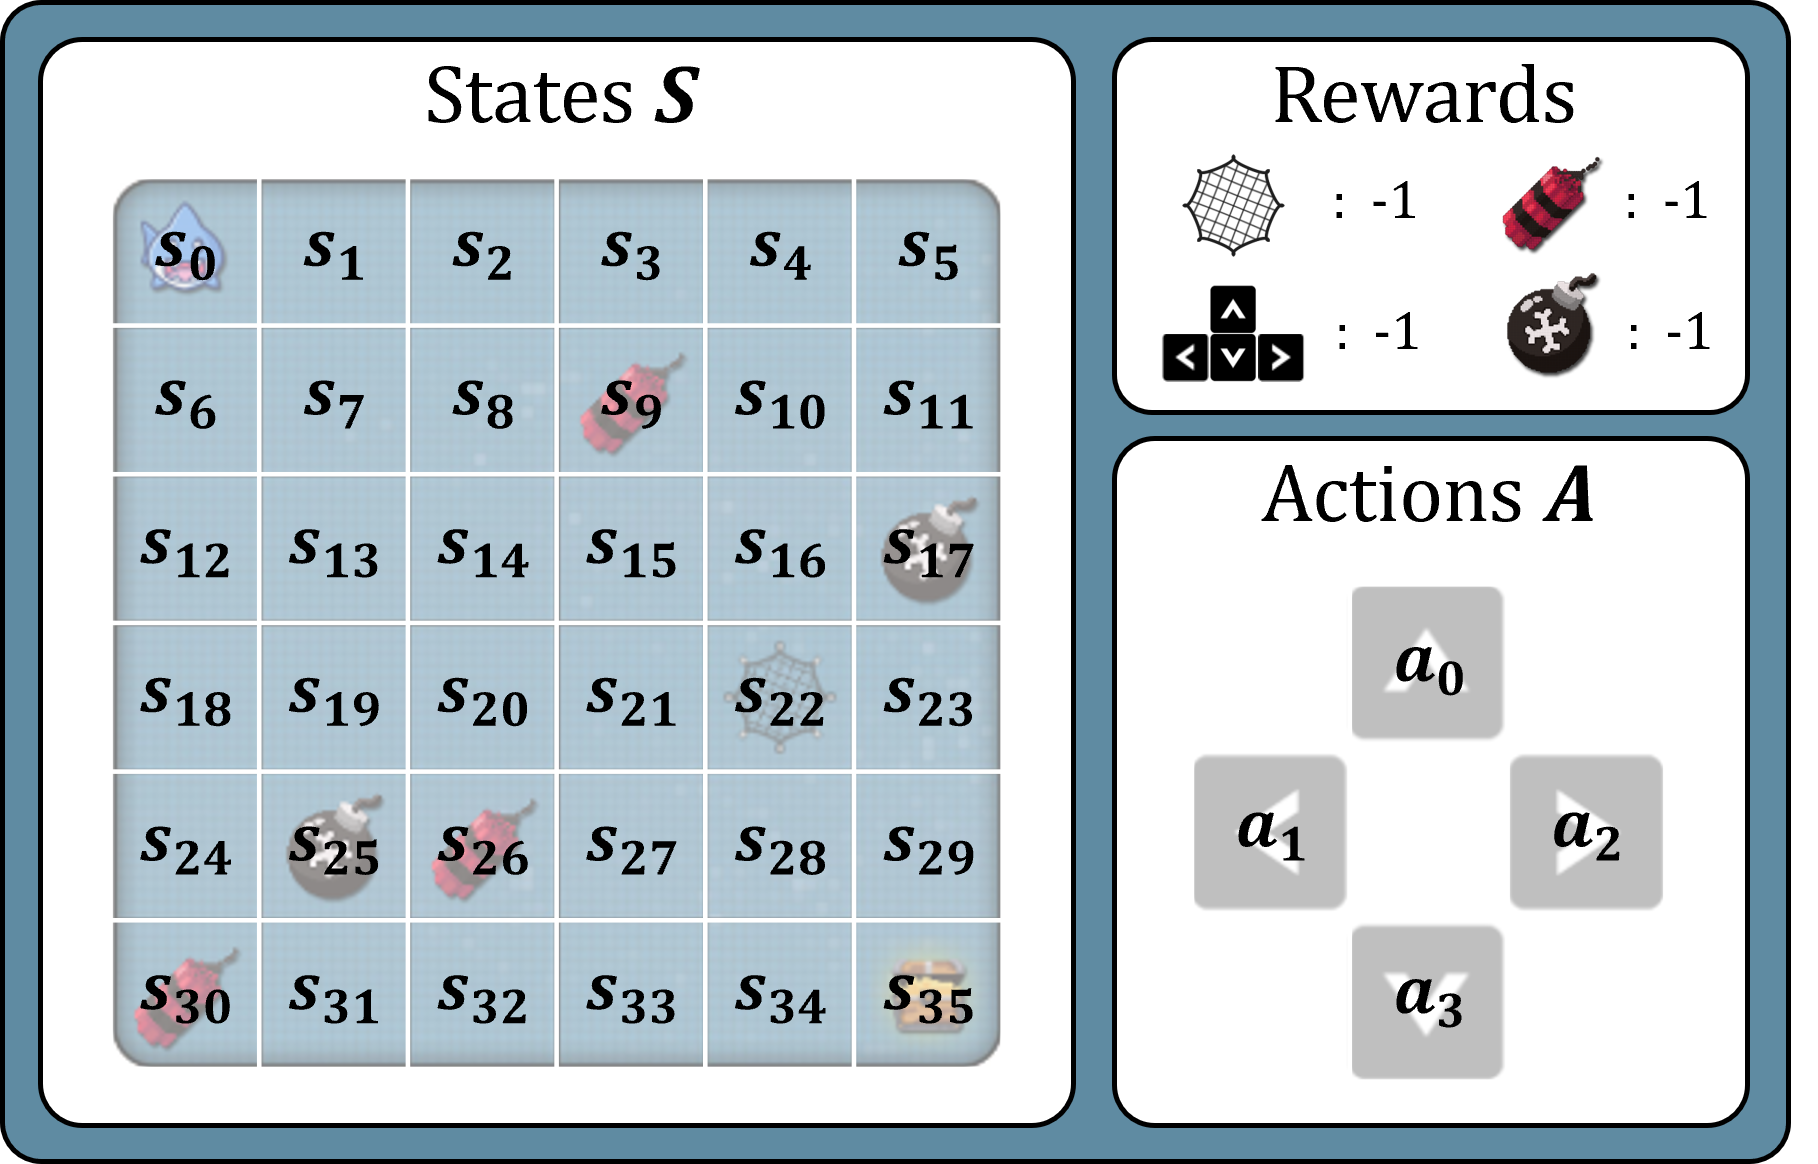
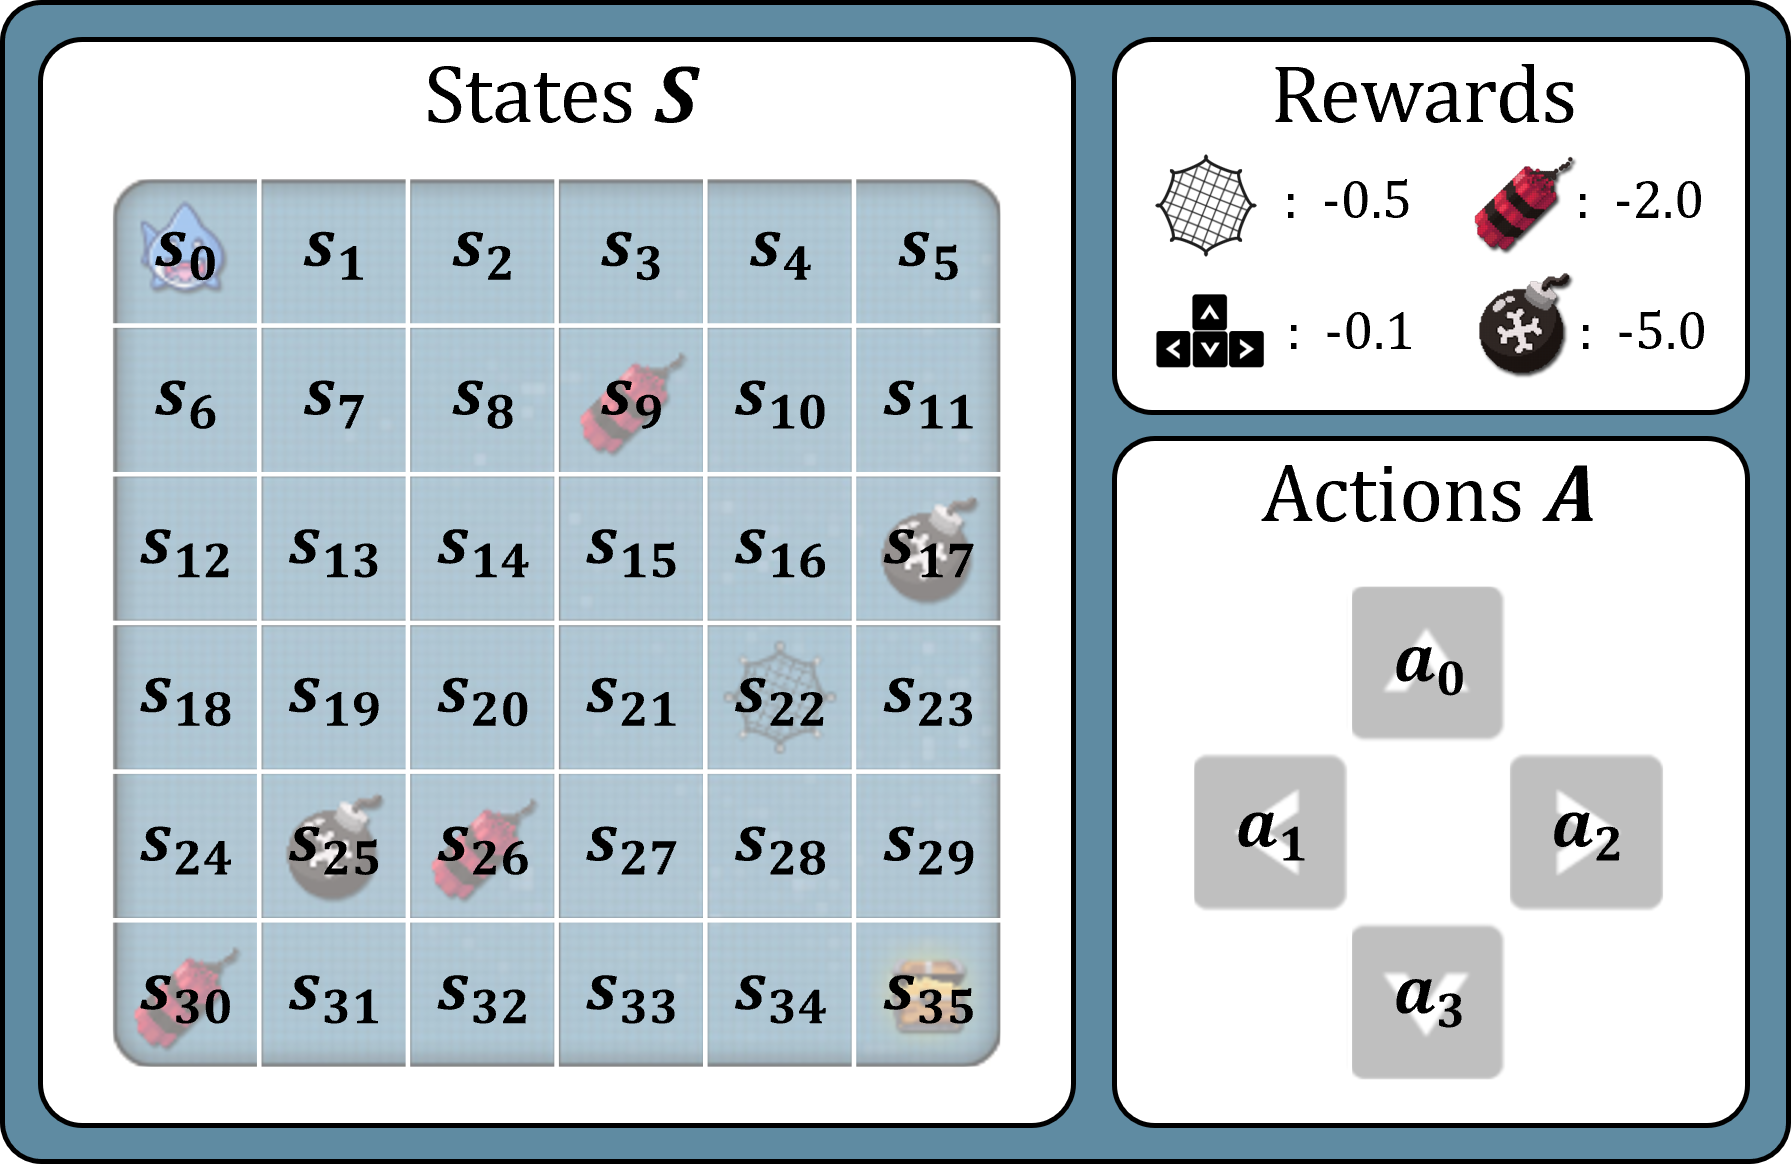
Fix: reward scale img, TD formula

diff --git a/index.html b/index.html
@@ -520,7 +520,7 @@
           TD achieves this goal by using the Bootstrap method, which updates an estimate using another estimate. Specifically, TD uses the difference between observed rewards
            and predicted rewards to update the value function estimate at each time step. This allows TD to update the value function estimate incrementally and in real-time,
             without the need to wait for the end of an episode.
-            \[v_\pi\left(s_t\right)=\mathbb{E}_\pi\left[r_{t+1}+\gamma v_\pi\left(s_{t+1}\right)\right]\]
+            \[V\left(s_t\right)=\mathbb{E}\left[r_{t+1}+\gamma V\left(s_{t+1}\right)\right]\]
         </p>
         <p>
           Compared to MC methods, TD has the advantage of being more computationally efficient. However, it may have bias and may not converge to the true value function. 
